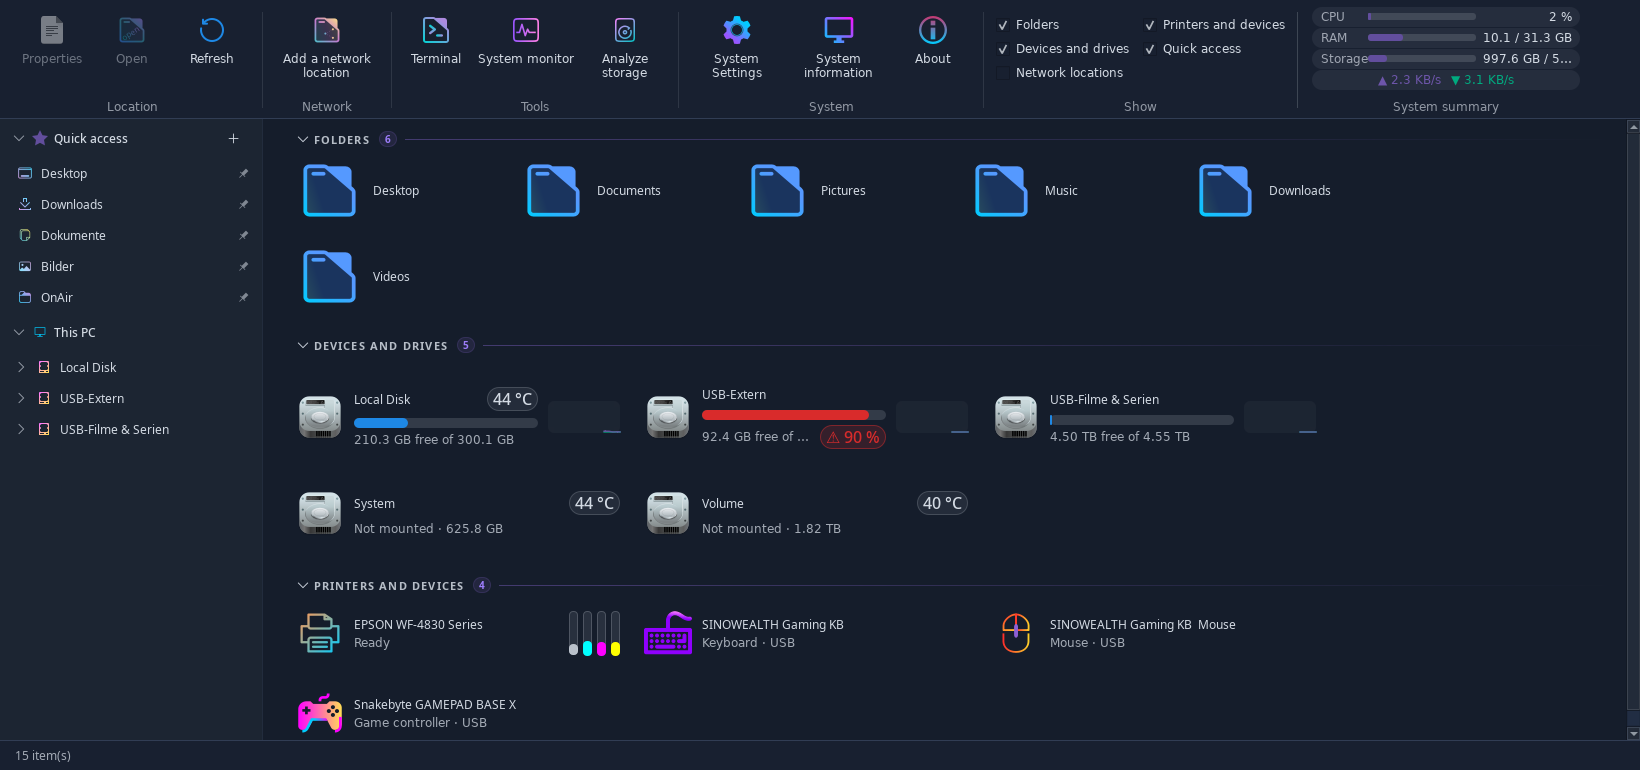
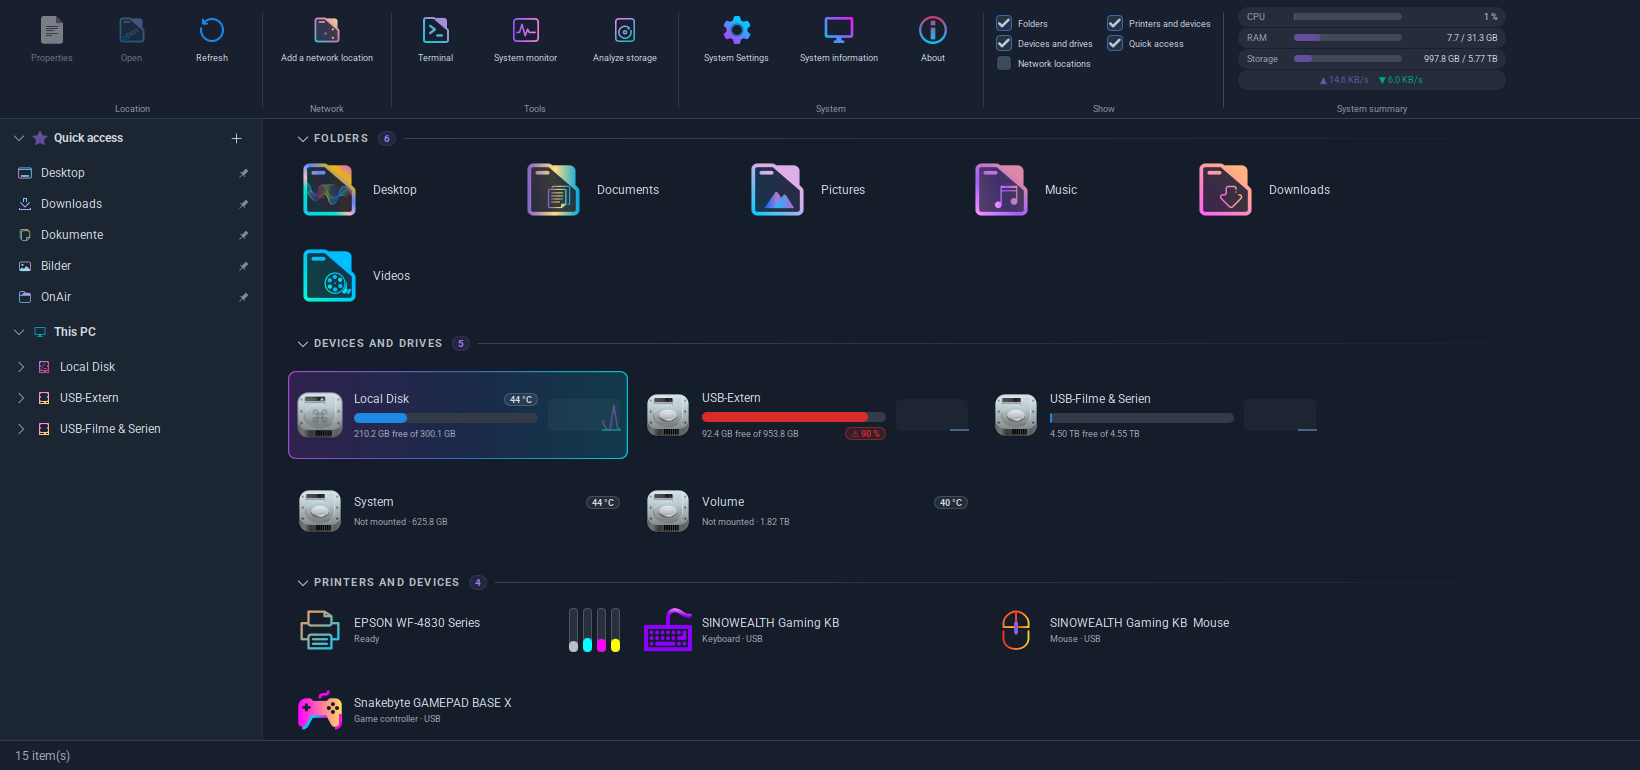
Update README and preview for the new look, SMART fallbacks and detached tools

diff --git a/README.md b/README.md
@@ -78,7 +78,7 @@ Everything below is explained in plain words. You do **not** need to be a progra
   (about 1430 px or less); they pause while the window is minimised.
 - **Unmount.** *Unmount* in a drive's right-click menu only logs the drive out and leaves it powered on, unlike
   *Safely remove*. It is not offered for system folders (`/`, `/boot`, `/home` …) or optical drives.
-- **System specs (HWiNFO-style).** The *System information* button opens a window with six tabs: *Overview*, *CPU & Board*
+- **System information (HWiNFO-style).** The *System information* button opens a window with six tabs: *Overview*, *CPU & Board*
   (model, family/model/stepping, microcode, caches, governor, board, chipset, BIOS), *GPU & Display* (VRAM, driver and
   version, PCIe link, Wayland/X11, KWin, OpenGL, Vulkan), *Memory*, *System & Drivers* (kernel, key modules with versions,
   PipeWire/ALSA) and *Network* (adapters and drivers). Everything is read in the background and cached for the session.
@@ -86,8 +86,11 @@ Everything below is explained in plain words. You do **not** need to be a progra
   slots and the CPU socket need root: the button *Read slot details (administrator)* runs `dmidecode` through `pkexec`
   after Plasma asks for your password.
 
-<p align="center"><img src="preview-specs.png" alt="System specs window" width="640"></p>
+<p align="center"><img src="preview-specs.png" alt="System information window" width="640"></p>
 
+- **Disk health that works with USB drives.** Many USB enclosures need a special mode before they report SMART data.
+  DriveDeck tries the usual ones for you (SAT, then several NVMe bridge types), asks for your password **only once**
+  when root rights are needed, and explains clearly when an enclosure simply does not pass SMART through.
 - **Tools group.** A ribbon group with **Terminal**, **System monitor** (Plasma System Monitor, otherwise btop or htop)
   and **Analyze storage** (Filelight, otherwise Baobab or ncdu) to find what eats your space. The analysis runs on the
   selected local drive, or on your home folder. Buttons for programs that are not installed are hidden.
@@ -125,7 +128,10 @@ Everything below is explained in plain words. You do **not** need to be a progra
 - The pie chart in the *Properties* window is now a smooth **donut ring** with the percentage in the middle.
 - Usage bars are slimmer and rounded, and **animate** to their value.
 - Cards react more softly to the mouse: they fade a highlight in, the icon grows a little, and the selected card gets
-  an accent strip.
+  an accent strip. Folders, drives, network locations and printers all share **one hover look**: a translucent
+  purple-to-cyan gradient with a glowing gradient border.
+- Section headers ("FOLDERS", "DEVICES AND DRIVES", …) are in capitals with the item count as a small pill and a line that
+  fades out to the right. Divider lines are softer.
 
 ### Small things
 
@@ -134,6 +140,9 @@ Everything below is explained in plain words. You do **not** need to be a progra
   `MAJ_API`.)
 - New menu texts come with **German** translations. Other languages show English for the new entries until someone
   translates them (help is welcome!).
+- Programs started from DriveDeck (Terminal, System monitor, Dolphin, …) run completely on their own and no longer
+  hang under DriveDeck in the process tree.
+- The program gives unused memory back to the system after heavy work (opening the System information window, minimising).
 - Unused leftover code was removed.
 
 ---
@@ -155,8 +164,8 @@ Optional tools switch on extra features:
 | `konsole` | "Open in terminal", Terminal button |
 | `plasma-systemmonitor` / `btop` / `htop` | System monitor button |
 | `filelight` / `baobab` / `ncdu` | "Analyze storage" |
-| `lspci`, `lscpu`, `nvidia-smi`, `glxinfo`, `vulkaninfo`, `pactl` | Details in *System specs* |
-| `dmidecode` + `pkexec` | RAM slots and CPU socket in *System specs* |
+| `lspci`, `lscpu`, `nvidia-smi`, `glxinfo`, `vulkaninfo`, `pactl` | Details in *System information* |
+| `dmidecode` + `pkexec` | RAM slots and CPU socket in *System information* |
 | NumPy (`python-numpy`) | Live read/write graph on the drive cards |
 
 ---
